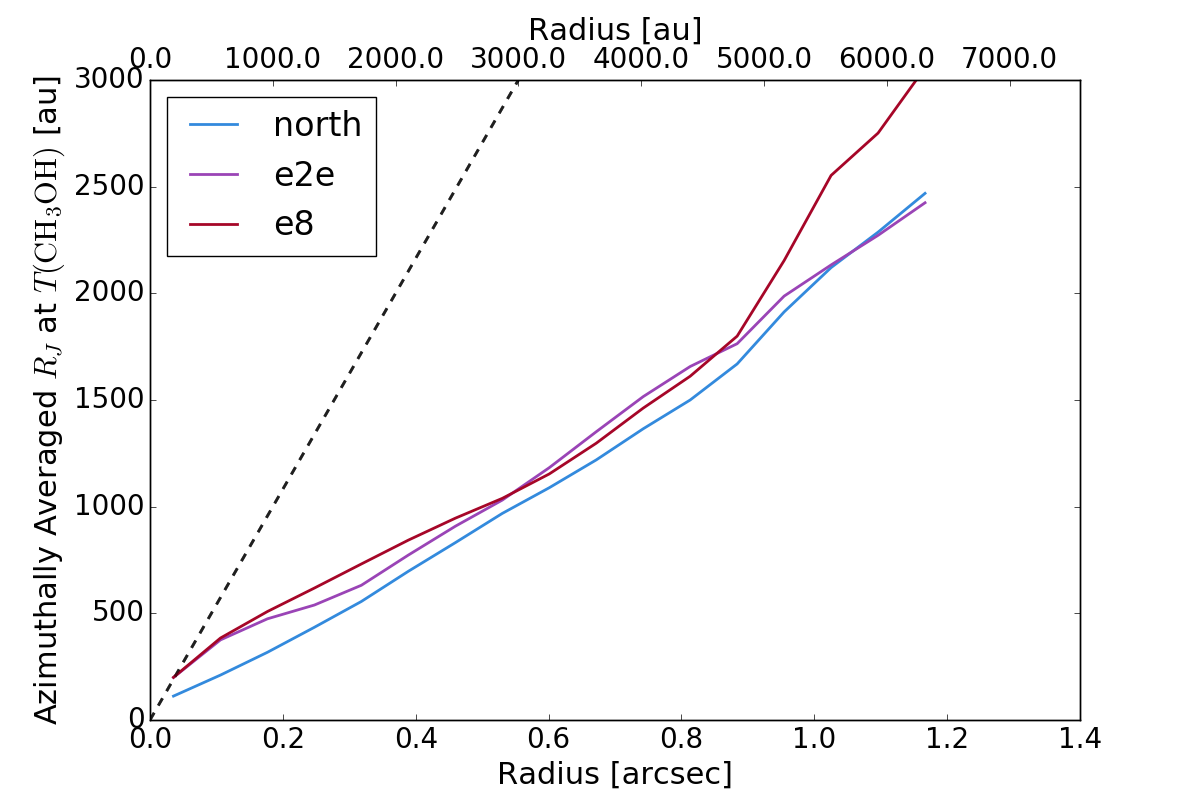
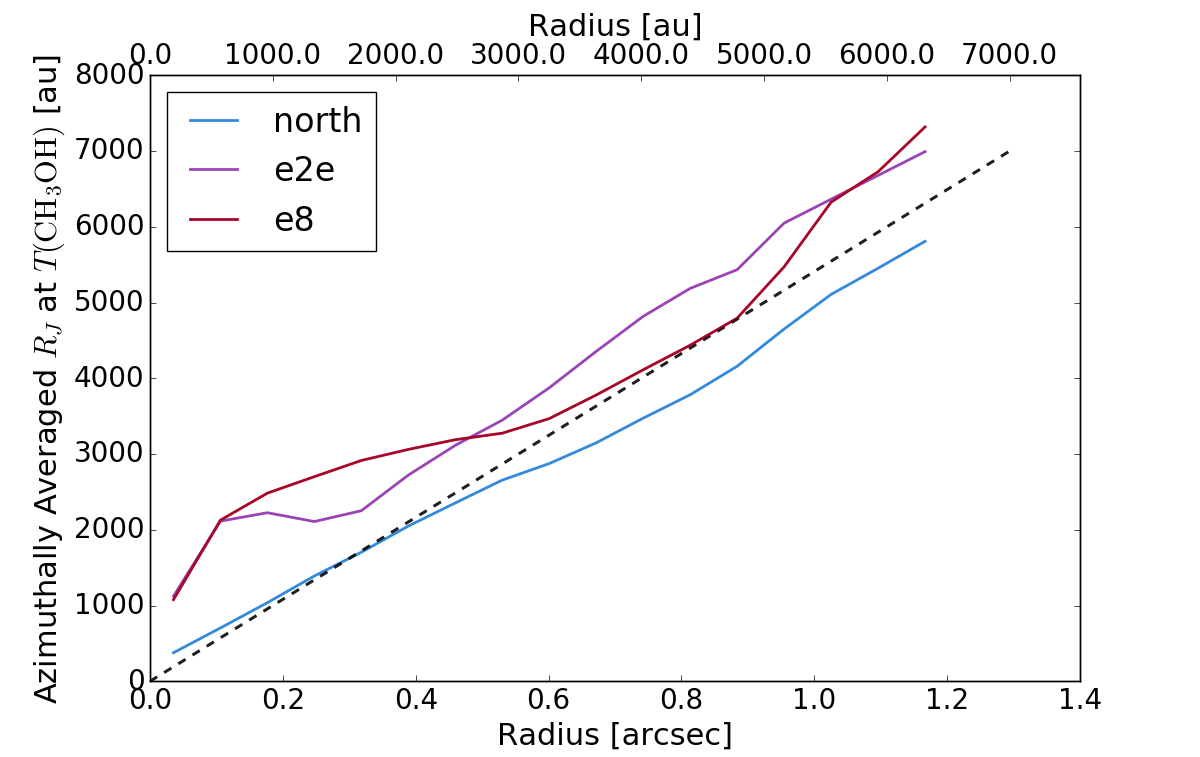
fix Jeans analysis

diff --git a/analysis/radial_profiles.py b/analysis/radial_profiles.py
@@ -138,7 +138,7 @@ def make_rprof(regions, ploteach=False):
         nplots = 0
 
     pl.matplotlib.rc_file('pubfiguresrc')
-    for jj in range(nplots*3+1, nplots*3+11):
+    for jj in range(nplots*3+1, nplots*3+12+1):
         pl.figure(jj).clf()
     # $ find ~/work/w51/alma/FITS/ -samefile ~/work/w51/alma/FITS/W51_te_continuum_best.fits
     # /Users/adam/work/w51/alma/FITS//12m/continuum/selfcal_allspw_selfcal_3_mfs_deeper.image.pbcor.fits
@@ -252,7 +252,7 @@ def make_rprof(regions, ploteach=False):
 
         angular_radii = bins*pixscale*3600.
         azimuthal_average_flux = rprof/ppbeam
-        azimuthal_average_mass = azimuthal_average_flux * masscalc.mass_conversion_factor(TK=40) / u.beam
+        azimuthal_average_mass_40K = azimuthal_average_flux * masscalc.mass_conversion_factor(TK=40) / u.beam
         bindiff_as = np.diff(bins).mean() * pixscale * 3600.
         bindiff_cm = bindiff_as * masscalc.distance / 206265.
         bins_cm = (angular_radii * masscalc.distance / 206265.).to(u.cm)
@@ -265,13 +265,13 @@ def make_rprof(regions, ploteach=False):
                                     bins_cm.to(u.cm)[:-1]**3).value.tolist(),
                                    u.cm**3)
         sqdiffbins_pix = [bins[0]**2] + (bins[1:]**2 - bins[:-1]**2).tolist()
-        azimuthal_average_density = (azimuthal_average_mass * sqdiffbins_pix /
-                                     (2.8*u.Da) /
-                                     (4/3.*np.pi*(cudiffbins_cm))).to(u.cm**-3)
+        azimuthal_average_density_40K = (azimuthal_average_mass_40K * sqdiffbins_pix /
+                                        (2.8*u.Da) /
+                                        (4/3.*np.pi*(cudiffbins_cm))).to(u.cm**-3)
 
         pl.figure(nplots*3+5)
-        pl.semilogy(angular_radii, azimuthal_average_density, label=name)
-        pl.ylabel("Azimuthally Averaged Density [cm$^{-3}$]")
+        pl.semilogy(angular_radii, azimuthal_average_density_40K, label=name)
+        pl.ylabel("Azimuthally Averaged Density at T=40K [cm$^{-3}$]")
         pl.xlabel("Radius [arcsec]")
         if len(names) < 5:
             pl.legend(loc='best')
@@ -305,10 +305,11 @@ def make_rprof(regions, ploteach=False):
             #ax3.set_ylabel("Cumulative Mass (M$_\\odot$, $T=40$ K)")
 
 
+
         c_s_40k = ((constants.k_B * 40*u.K / (2.4*u.Da))**0.5).to(u.km/u.s)
         azimuthal_average_MJ_40k = (np.pi/6. * c_s_40k**3 /
                                     (constants.G**1.5 *
-                                     (2.8*u.Da*azimuthal_average_density)**0.5)).to(u.M_sun)
+                                     (2.8*u.Da*azimuthal_average_density_40K)**0.5)).to(u.M_sun)
 
         pl.figure(nplots*3+6)
         pl.semilogy(angular_radii, azimuthal_average_MJ_40k, label=name)
@@ -394,8 +395,17 @@ def make_rprof(regions, ploteach=False):
                                                        interpnan=True,
                                                       )
 
+        mass_map = (cutout.data * masscalc.mass_conversion_factor(TK=temcutout.data) ).to(u.M_sun)
+        yy,xx = np.indices(cutout.data.shape)
+        rr_map = ((xx-cutout.data.shape[1]/2.)**2 + (yy-cutout.data.shape[0]/2.)**2)
         mass_profile = (cumul_rprof * masscalc.mass_conversion_factor(TK=tem_rprof) / u.beam).to(u.M_sun)
         density_profile = (mass_profile / (4/3.*np.pi*radii**3) / (2.8*u.Da)).to(u.cm**-3)
+
+        azimuthal_average_mass = azimuthal_average_flux * masscalc.mass_conversion_factor(TK=tem_rprof) / u.beam
+        azimuthal_average_density = (azimuthal_average_mass * sqdiffbins_pix /
+                                    (2.8*u.Da) /
+                                    (4/3.*np.pi*(cudiffbins_cm))).to(u.cm**-3)
+
 
         density_alpha = ((np.log(density_profile[1:].value) -
                           np.log(density_profile[:-1].value)) /
@@ -411,8 +421,12 @@ def make_rprof(regions, ploteach=False):
 
 
         pl.figure(nplots*3+7)
-        pl.plot(angular_radii, azimuthal_average_MJ, label=name)
-        pl.ylabel("Azimuthally Averaged $M_J$ at $T(\\mathrm{CH}_3\\mathrm{OH})$")
+        line, = pl.plot(angular_radii, azimuthal_average_MJ, label=name)
+        # WRONG pl.plot(angular_radii, azimuthal_average_mass, linestyle='--',
+        # WRONG         alpha=0.75, color=line.get_color())
+        #pl.plot(rr_map*pixscale*3600., mass_map, 'k.', alpha=0.25)
+        pl.axis([0,1.2,0.0,5.0])
+        pl.ylabel("Azimuthally Averaged $M$ at $T(\\mathrm{CH}_3\\mathrm{OH})$ [$M_\\odot$]")
         pl.xlabel("Radius [arcsec]")
         if len(names) < 5:
             pl.legend(loc='best')
@@ -490,7 +504,7 @@ def make_rprof(regions, ploteach=False):
                 [0,7000], 'k--', alpha=0.5)
         pl.ylabel("Azimuthally Averaged $R_J$ at $T(\\mathrm{CH}_3\\mathrm{OH})$ [au]")
         pl.xlabel("Radius [arcsec]")
-        pl.ylim(0,3000)
+        pl.ylim(0,8000)
         if len(names) < 5:
             pl.legend(loc='best')
         elif ii==len(names)-1:
@@ -523,6 +537,42 @@ def make_rprof(regions, ploteach=False):
         pl.ylabel("Density Profile Exponent $\\kappa_\\rho$")
 
 
+        pl.figure(nplots*3+12)
+        pl.semilogy(angular_radii, azimuthal_average_density, label=name)
+        pl.ylabel("Azimuthally Averaged Density at T=T(CH$_3$OH) [cm$^{-3}$]")
+        pl.xlabel("Radius [arcsec]")
+        if len(names) < 5:
+            pl.legend(loc='best')
+        elif ii==len(names)-1:
+            ax = pl.gca()
+            box = ax.get_position()
+            ax.set_position([box.x0, box.y0, box.width * 0.6, box.height])
+
+            # Put a legend to the right of the current axis
+            ax.legend(loc='center left', bbox_to_anchor=(1, 0.5))
+
+        if ii == len(names) - 1:
+            ax = pl.gca()
+            ax.set_ylim(1e6, 2e9)
+            ax2 = ax.twiny()
+            #ax3 = ax.twinx()
+            def tick_function(old_x):
+                newx = (old_x*u.arcsec*masscalc.distance).to(u.au, u.dimensionless_angles()).value
+                return ["%.1f" % z for z in newx]
+            new_tick_locations = np.arange(0,8000,1000)*u.au
+            new_tick_locs_as = (new_tick_locations/masscalc.distance).to(u.arcsec, u.dimensionless_angles())
+            ax2.set_xlim(ax.get_xlim())
+            ax2.set_xticks(new_tick_locs_as.value)
+            ax2.set_xticklabels(tick_function(new_tick_locs_as.value))
+            ax2.set_xlabel(r"Radius [au]")
+            #ax3.set_ylim(ax.get_ylim())
+            #yticks_mass = np.arange(0,6000,1000)
+            #yticks_Jy = yticks_mass/masscalc.mass_conversion_factor(TK=40).value
+            #ax3.set_yticks(yticks_Jy)
+            #ax3.set_yticklabels(yticks_mass)
+            #ax3.set_ylabel("Cumulative Mass (M$_\\odot$, $T=40$ K)")
+
+
 regions = pyregion.open(paths.rpath("hmcore_centroids.reg"))
 make_rprof(regions, ploteach=True)
 nplots = len(regions)
@@ -530,6 +580,7 @@ pl.figure(nplots*3+2).savefig(paths.fpath("cumulative_radial_flux_massivecores.p
 pl.figure(nplots*3+3).savefig(paths.fpath("cumulative_radial_mass_massivecores.png"))
 pl.figure(nplots*3+4).savefig(paths.fpath("cumulative_density_40K_massivecores.png"))
 pl.figure(nplots*3+5).savefig(paths.fpath("azimuthalaverage_density_40K_massivecores.png"))
+pl.figure(nplots*3+12).savefig(paths.fpath("azimuthalaverage_density_of_TCH3OH_massivecores.png"))
 pl.figure(nplots*3+6).savefig(paths.fpath("azimuthalaverage_radial_mj_40K_massivecores.png"))
 pl.figure(nplots*3+7).savefig(paths.fpath("azimuthalaverage_radial_mj_of_TCH3OH_massivecores.png"))
 pl.figure(nplots*3+8).savefig(paths.fpath("cumulative_radial_mass_of_TCH3OH_massivecores.png"))

diff --git a/cores_and_outflows/cores_and_outflows.tex b/cores_and_outflows/cores_and_outflows.tex
@@ -1626,10 +1626,15 @@ have strong opinions about the leading numerical constants?}, in Figure
 \ref{fig:mjeans}.  The Jeans mass is a few times higher than the peak of the
 stellar initial mass function (IMF), $M_{peak}=0.3$ \msun, implying that any
 fragments will be larger than the typical mass in star-forming regions.
-More importantly, though, the Jeans length is significantly smaller than the
-size scale on which it is inferred throughout the entire heated core.
-The gas throughout these MYSO cores is therefore Jeans-stable and will not
-spontaneously fragment.
+More importantly, fragments of such mass cannot be assembled in this core,
+as they would be larger than the core at any given radius; the Jeans length
+is comparable to the hot core size and suggests that only one total fragment
+(the core itself) should exist.
+%this is wrong
+% More importantly, though, the Jeans length is significantly smaller than the
+% size scale on which it is inferred throughout the entire heated core.
+% The gas throughout these MYSO cores is therefore Jeans-stable and will not
+% spontaneously fragment.
 
 The high gas temperature therefore provides a mechanism for MYSOs to avoid
 the ``fragmentation-induced starvation'' problem discussed by
@@ -1659,10 +1664,19 @@ structures.
 {The azimuthally averaged (a) Jeans mass and (b) Jeans length surrounding the
 three most massive cores.  We used the \methanol temperature from
 \ref{sec:methanol}, Figure \ref{fig:hmradprof}b in both the Jeans mass
-calculation and the dust-based mass determination.  The Jeans mass decreases
-toward the center at least in part because of the density increase, while the
-temperature only rises slowly.  In (b), the dashed black line shows the $R_J=R$ line,
-below which the gas is stable to the Jeans instability.}
+calculation and the dust-based mass determination.
+The density used for the mass calculation is assumed to be distributed
+over spherical shells.
+%The dashed lines show the average mass per $\sim1000$ AU
+%beam 
+%The Jeans mass decreases
+%toward the center at least in part because of the density increase, while the
+%temperature only rises slowly.  
+In (b), the dashed black line shows the $R_J=R$ line.  When $R_J > R$,
+the gas is on average stable against Jeans collapse on the measured length
+scale.  Since the medium is clearly \emph{not} isothermal or uniform density,
+though, this only shows a rough approximation of the stability.
+}
 {fig:mjeans}{1}{10cm}
 
 By suppressing fragmentation in their surroundings, accreting massive stars are
